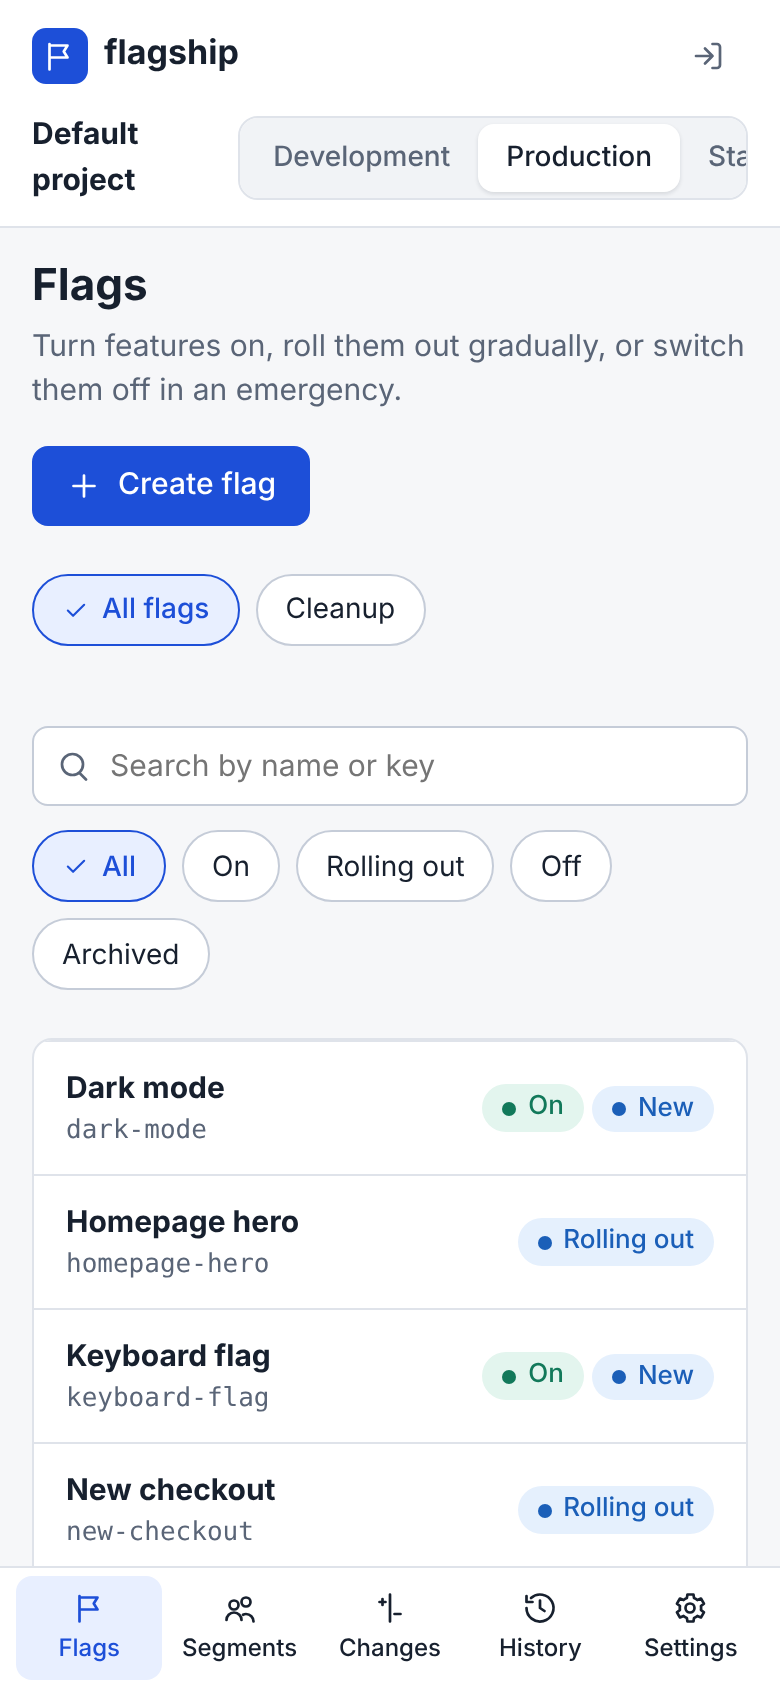
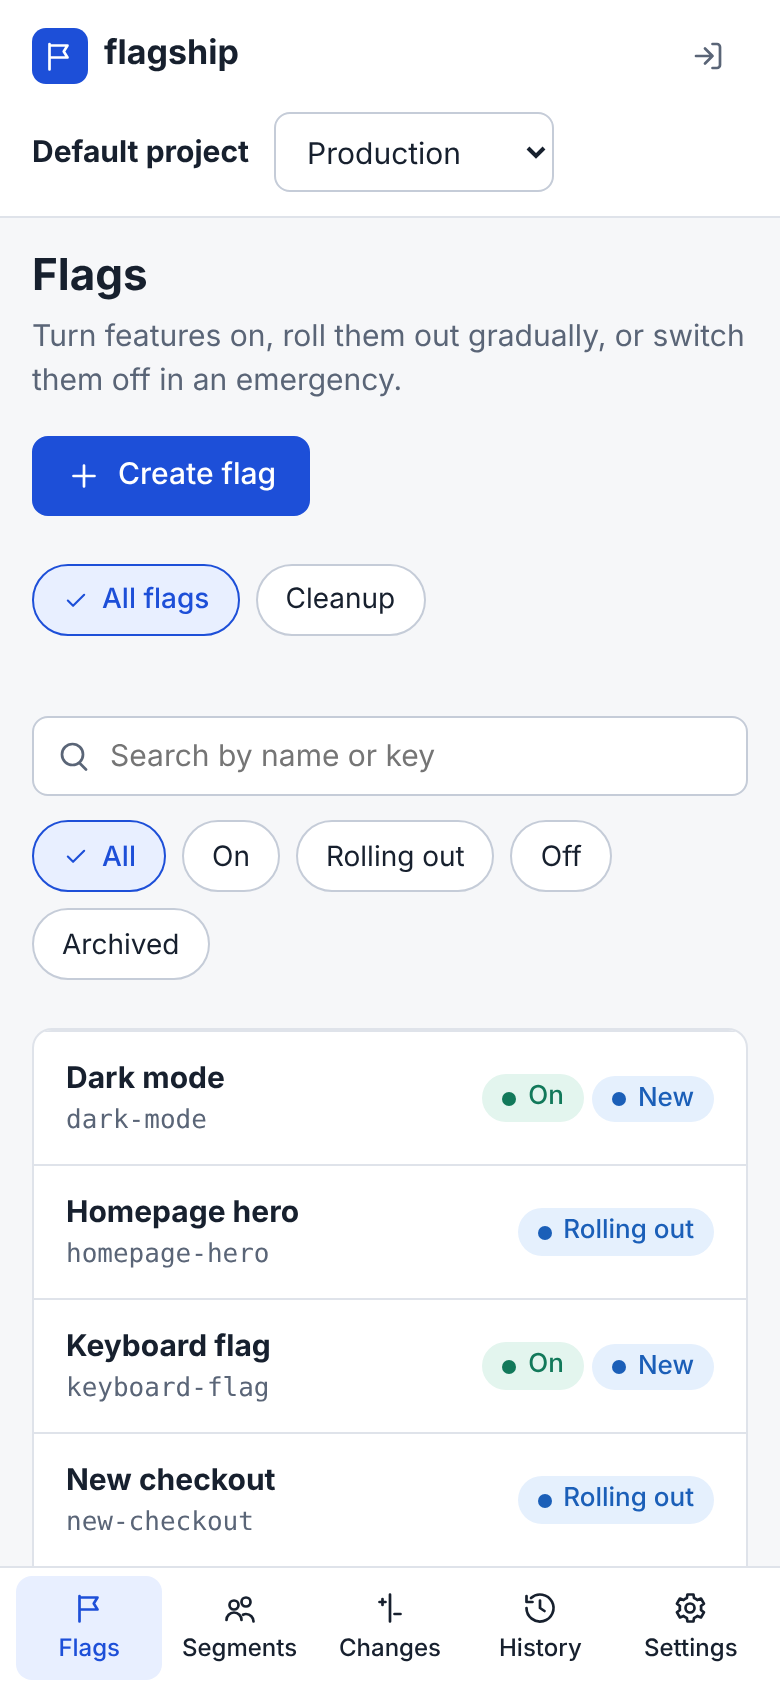
Use the environment select on narrow screens with three environments (#80)
The segmented environment control was clipped at 390 px once a project had
three environments. Below 600 px it now gives way to the select after two
environments instead of four. The e2e page check asserts the select lists
every environment at 390 px and the segmented control remains at 1440 px.
The 390 px screenshots are re-rendered.

Closes #80

diff --git a/apps/admin/src/pages/Layout.tsx b/apps/admin/src/pages/Layout.tsx
@@ -3,7 +3,7 @@ import { NavLink, Outlet, useLocation, useNavigate, useParams } from 'react-rout
 import { api, type Project } from '../api';
 import { Icon, type IconName } from '../components/icons';
 import { ErrorState, IconButton, Loading, Segmented } from '../components/ui';
-import { useResource } from '../hooks';
+import { useMediaQuery, useResource } from '../hooks';
 import { useSession } from '../session';
 
 export interface Scope {
@@ -38,6 +38,8 @@ export function Layout() {
   const location = useLocation();
   const { user, signOut } = useSession();
   const projects = useResource(() => api.projects(), 'projects');
+  // Three segments no longer fit beside the project name on a phone.
+  const narrow = useMediaQuery('(max-width: 600px)');
 
   const projectKey = params.project ?? '';
   const env = params.env ?? '';
@@ -110,7 +112,7 @@ export function Layout() {
             ) : (
               <strong>{project.name}</strong>
             )}
-            {project.environments.length <= 4 ? (
+            {project.environments.length <= (narrow ? 2 : 4) ? (
               <Segmented
                 label="Environment"
                 value={env}

diff --git a/e2e/admin.spec.ts b/e2e/admin.spec.ts
@@ -351,6 +351,17 @@ for (const width of [1440, 390] as const) {
     }
 
     await page.goto(`${base()}/p/default/staging/change-requests`);
+    if (width === 390) {
+      // Three environments: a select that lists all of them, not a clipped control.
+      const switcher = page.getByRole('combobox', { name: 'Environment' });
+      await expect(switcher).toBeVisible();
+      await expect(switcher.locator('option')).toHaveCount(3);
+      await expect(switcher.locator('option', { hasText: 'Staging' })).toHaveCount(1);
+      const box = await switcher.boundingBox();
+      expect(box!.x + box!.width).toBeLessThanOrEqual(390);
+    } else {
+      await expect(page.getByRole('radiogroup', { name: 'Environment' })).toBeVisible();
+    }
     await page.getByRole('link', { name: /Open new checkout to staff/ }).click();
     await expect(page.getByRole('heading', { name: 'Who gets what' })).toBeVisible();
     await page.evaluate(() => document.fonts.ready);

diff --git a/apps/admin/src/hooks.ts b/apps/admin/src/hooks.ts
@@ -1,4 +1,4 @@
-import { useCallback, useEffect, useRef, useState } from 'react';
+import { useCallback, useEffect, useRef, useState, useSyncExternalStore } from 'react';
 import { ApiError } from './api';
 
 export interface Resource<T> {
@@ -69,4 +69,20 @@ export function useResource<T>(load: () => Promise<T>, key: string): Resource<T>
     reload,
     set,
   };
+}
+
+/** Follows a CSS media query. Reports false where matchMedia does not exist. */
+export function useMediaQuery(query: string): boolean {
+  return useSyncExternalStore(
+    (notify) => {
+      if (typeof window.matchMedia !== 'function') return () => undefined;
+      const list = window.matchMedia(query);
+      list.addEventListener('change', notify);
+      return () => {
+        list.removeEventListener('change', notify);
+      };
+    },
+    () => typeof window.matchMedia === 'function' && window.matchMedia(query).matches,
+    () => false,
+  );
 }
